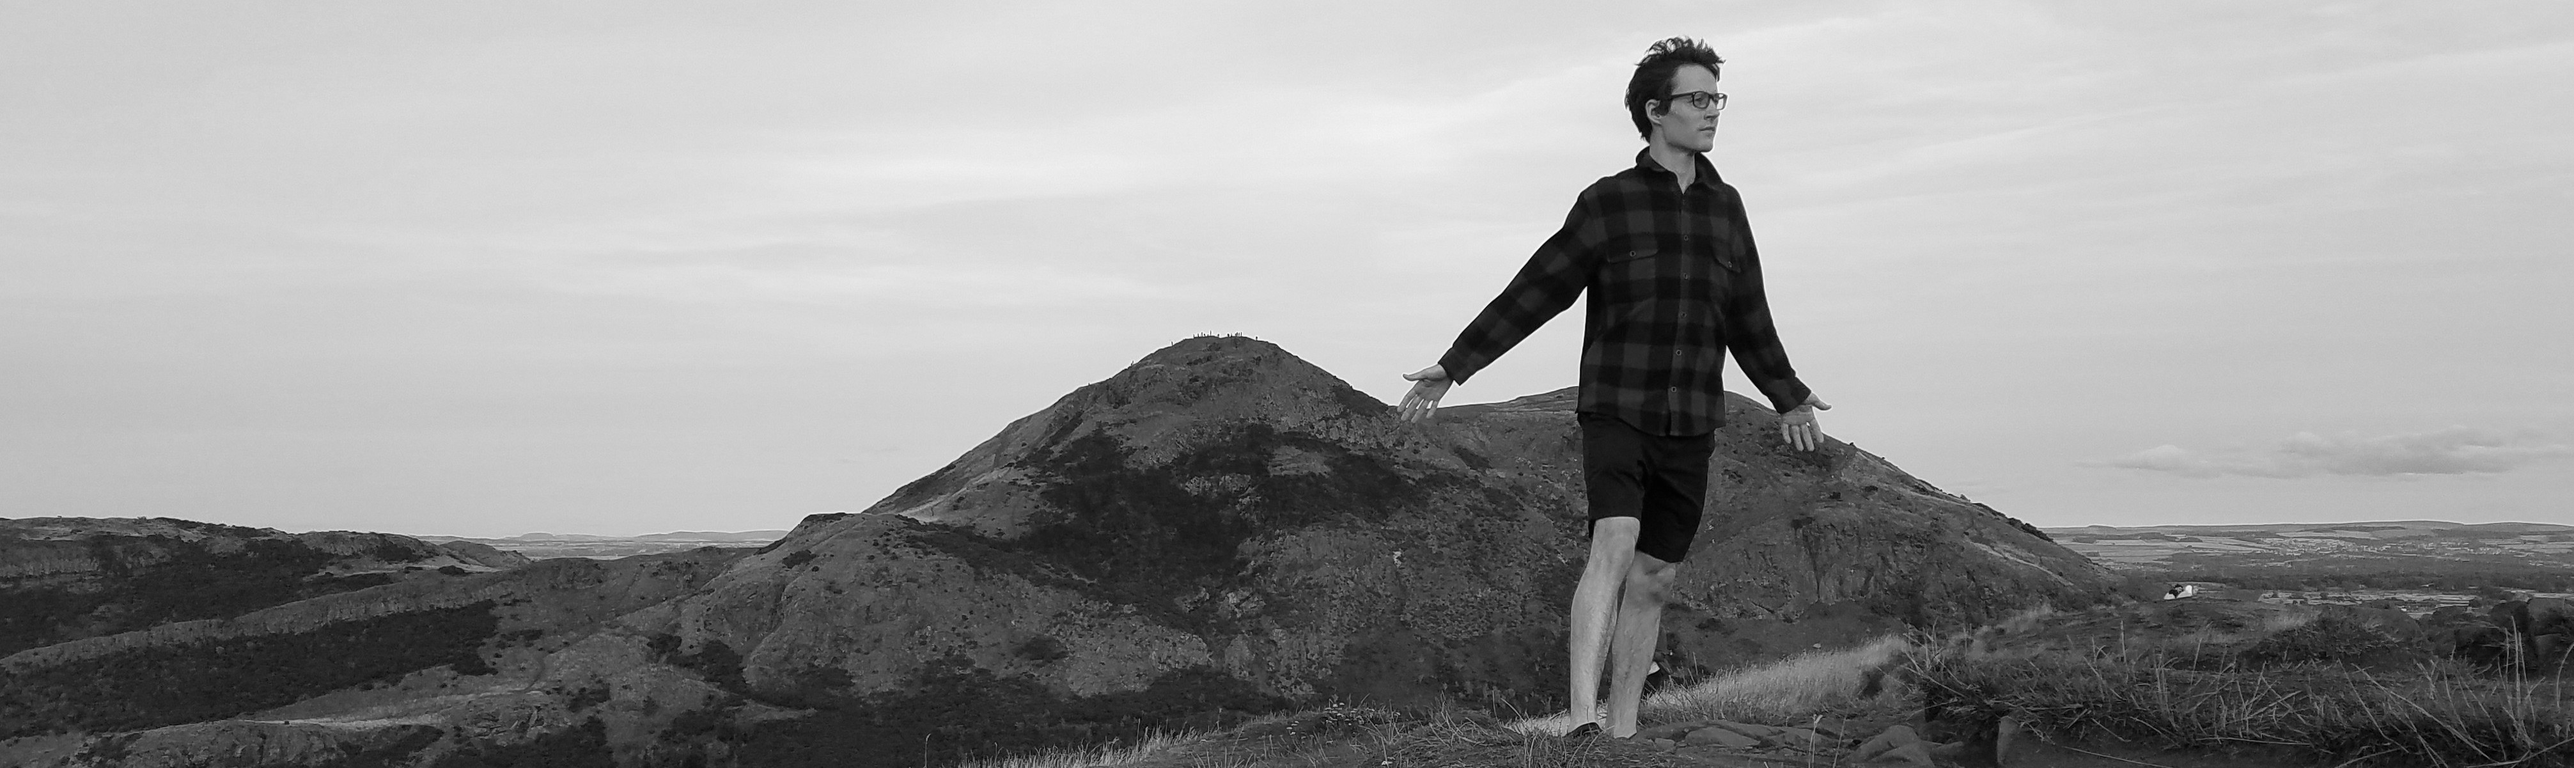
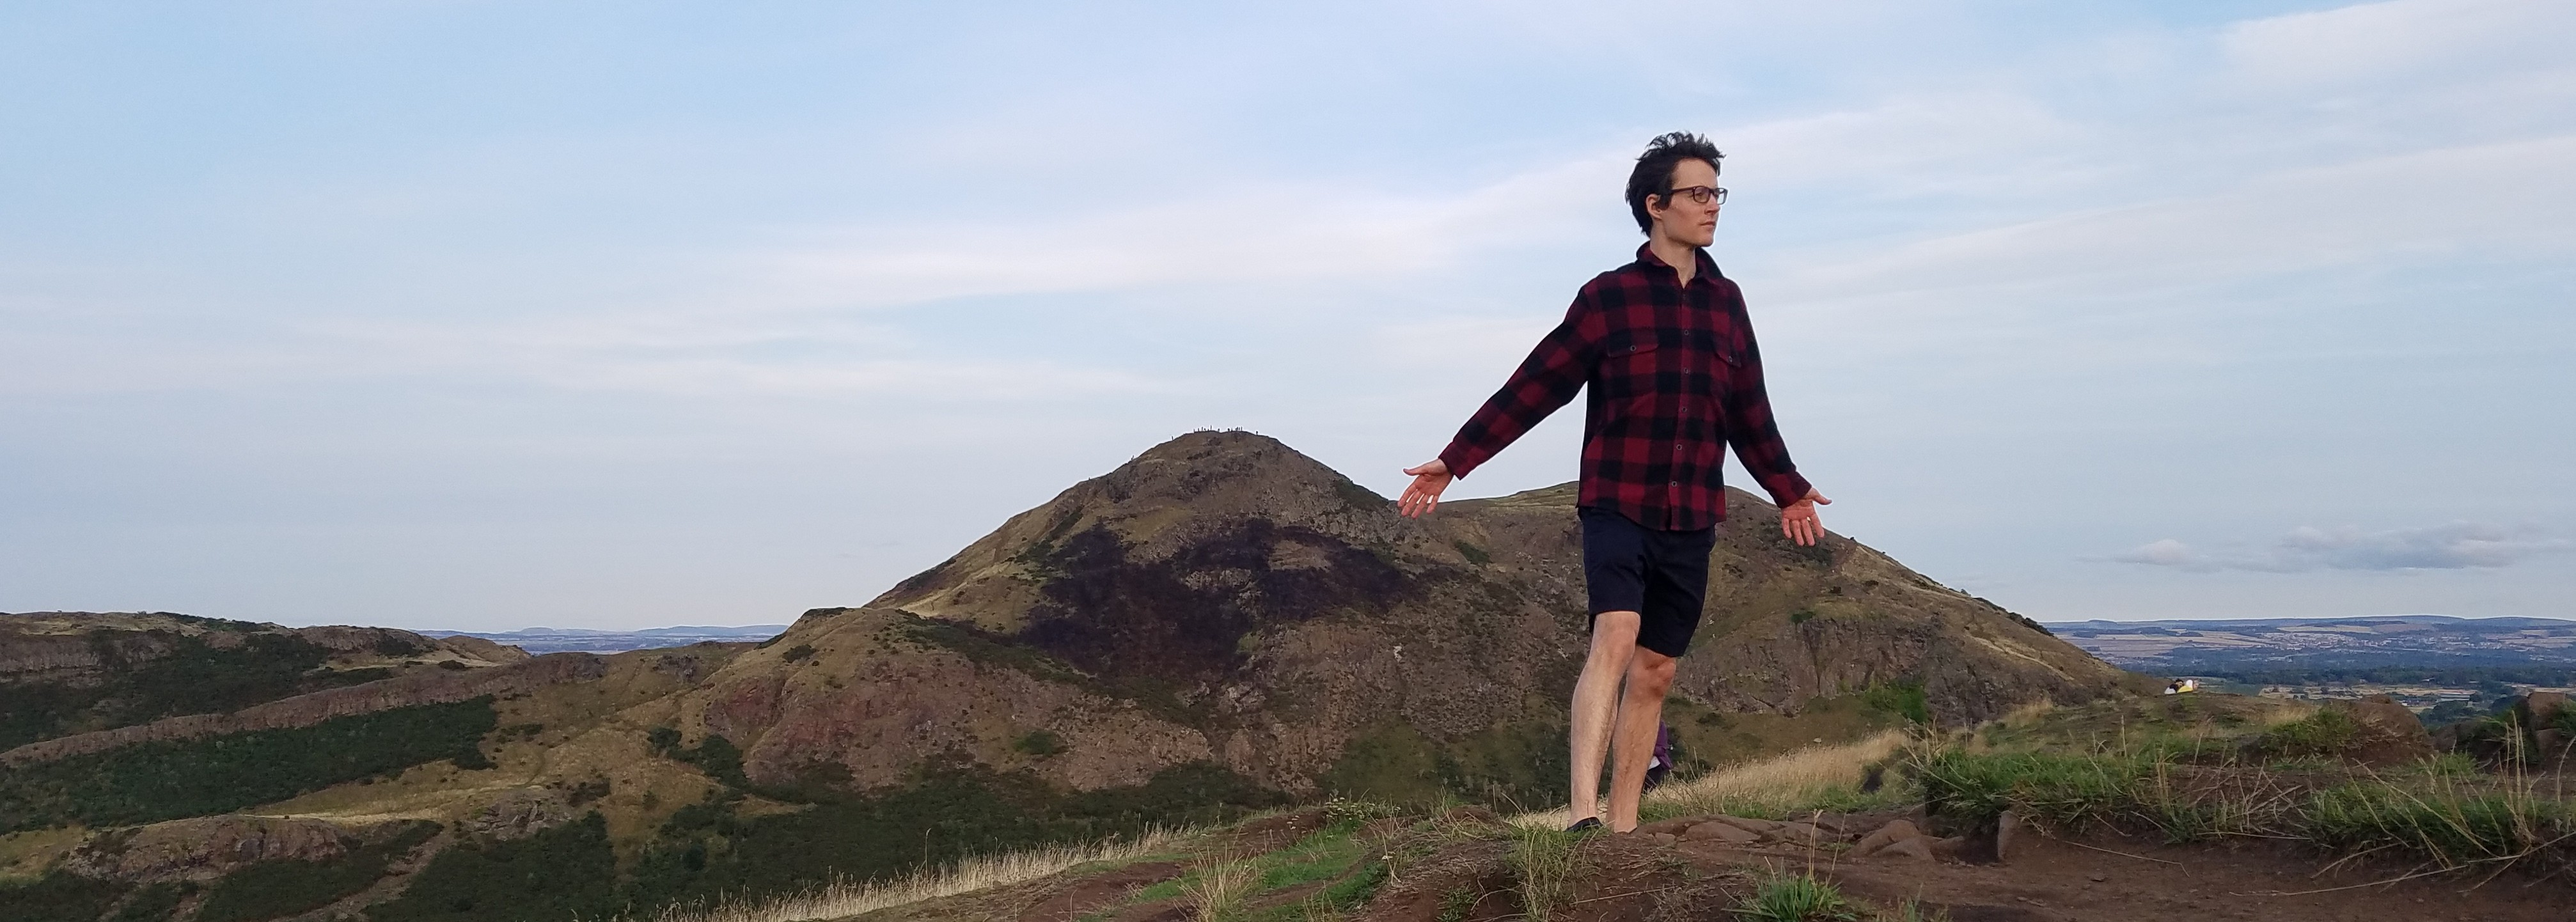
change theme

diff --git a/_layouts/post.html b/_layouts/post.html
@@ -24,7 +24,7 @@
       <section>
         <div id="picture" align="center">
 	<a href="/">
-	<img src="/assets/images/neurosat_dark.png" width=100%></div>
+	<img src="/assets/images/neurosat_flare.png" width=100%></div>
 	</a>
         <div id="title" align="center">
           <h2>{{ page.title | default: site.github.repository_name }}</h2>

diff --git a/_layouts/misc.html b/_layouts/misc.html
@@ -24,7 +24,7 @@
       <section>
         <div id="picture" align="center">
 	<a href="/">
-	<img src="/assets/images/neurosat_dark.png" width=50%></div>
+	<img src="/assets/images/neurosat_flare.png" width=50%></div>
 	</a>
         <div id="title" align="center">
           <h2>{{ page.title | default: site.github.repository_name }}</h2>
